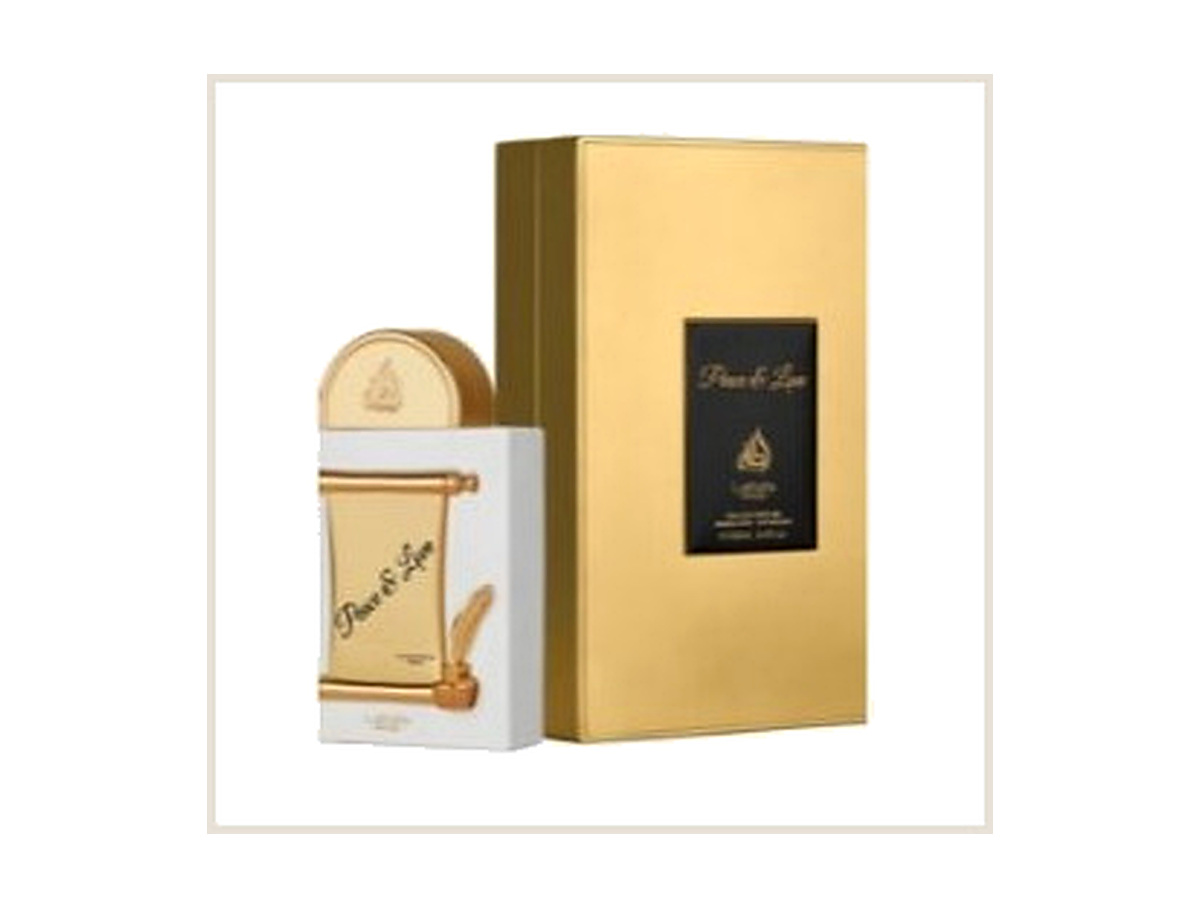
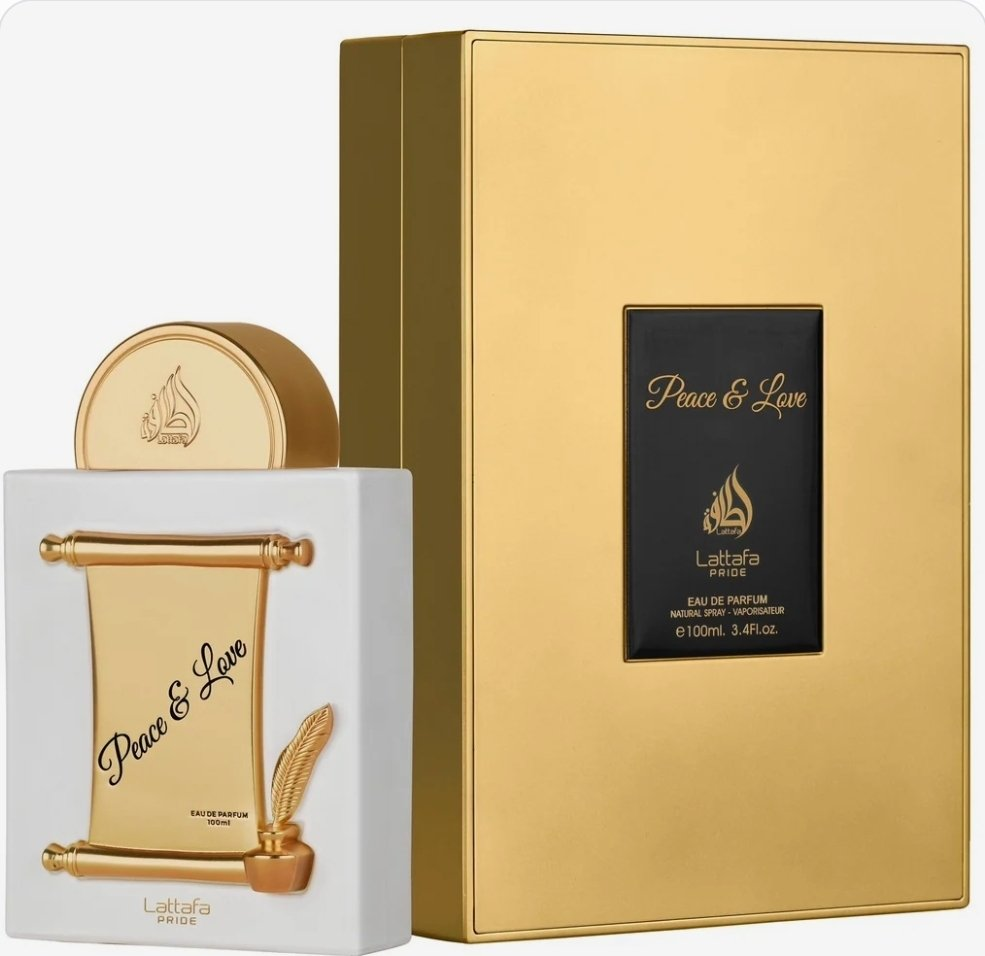
Replace Lattafa Pride Peace & Love photos with Boss's new shots

diff --git a/index.html b/index.html
@@ -695,7 +695,7 @@
         { name:'Jimmy Choo Illicit Flower Perfume for Women', niche:'Jimmy Choo · Women · 3.3 oz EDT', direction:'Sparkling fruit, rose and soft musk', description:'A graceful fruity-floral blend with a bright opening, delicate rose and a smooth musky finish. Polished, feminine and effortless for everyday wear.', category:'fresh', images:[{src:'assets/product-jimmy-choo-illicit-flower.jpg', alt:'Jimmy Choo Illicit Flower bottle close-up on a clean white background'},{src:'assets/product-jimmy-choo-illicit-flower-2.jpg', alt:'Jimmy Choo Illicit Flower bottle angled view on a clean white background'},{src:'assets/product-jimmy-choo-illicit-flower-3.jpg', alt:'Jimmy Choo Illicit Flower bottle with fresh fruit styling'}], price:59, decantPrice:15, originalPrice:79, featured:4 , paymentLink:'https://buy.stripe.com/dRmdRbfDjfUw4tQ9SHf7i15'},
         { name:'Afnan 9PM Elixir Perfume for Unisex', niche:'Afnan · Unisex · 3.4 oz Parfum Intense', direction:'Aromatic spice and warm vanilla woods', description:'Deep spice and aromatic freshness lead into a rich, smooth base of vanilla-toned woods. A powerful unisex choice with a dressed-up evening feel.', category:'amber', images:[{src:'assets/product-afnan-9pm-elixir.jpg', alt:'Afnan 9PM Elixir bottle and box — clean packshot'},{src:'assets/gallery-afnan-9pm-elixir-1.jpg', alt:'Afnan 9PM Elixir Perfume for Unisex — customer photo 1'}], price:44, decantPrice:11, originalPrice:55, featured:5, paymentLink:'https://buy.stripe.com/00w7sN1Mt5fSe4q0i7f7i16' },
         { name:'Bentley Intense Cologne for Men', niche:'Bentley · Men · 3.4 oz EDP', direction:'Rum, leather and smoky woods', description:'Warm rum and spice flow into leather, incense and dark woods. Rich, confident and best suited to cool weather or an evening setting.', category:'woody', images:[{src:'assets/product-bentley-intense.jpg', alt:'Bentley Intense bottle and box on a clean white background'},{src:'assets/product-bentley-intense-2.jpg', alt:'Bentley Intense bottle on a clean white background'}], price:40, decantPrice:10, originalPrice:52, featured:6, paymentLink:'https://buy.stripe.com/bJeeVf3UBaAcbWi5Crf7i19' },
-        { name:'Lattafa Pride Peace & Love Perfume for Unisex', niche:'Lattafa Pride · Unisex · 3.4 oz EDP', direction:'Soft florals, creamy woods and amber', description:'A smooth, comforting blend of luminous florals, creamy woods and mellow amber. Refined and easygoing, with a softly enveloping trail.', category:'amber', images:[{src:'assets/product-lattafa-peace-love.jpg', alt:'Lattafa Pride Peace and Love bottle and box — clean packshot'}], price:34, decantPrice:9, originalPrice:40, featured:7, paymentLink:'https://buy.stripe.com/9B66oJ2Qx6jW1hE6Gvf7i1a'},
+        { name:'Lattafa Pride Peace & Love Perfume for Unisex', niche:'Lattafa Pride · Unisex · 3.4 oz EDP', direction:'Soft florals, creamy woods and amber', description:'A smooth, comforting blend of luminous florals, creamy woods and mellow amber. Refined and easygoing, with a softly enveloping trail.', category:'amber', images:[{src:'assets/product-lattafa-peace-love.jpg', alt:'Lattafa Pride Peace and Love scroll bottle and gold box on a clean white background'},{src:'assets/product-lattafa-peace-love-2.jpg', alt:'Lattafa Pride Peace and Love scroll bottle on a clean white background'}], price:34, decantPrice:9, originalPrice:40, featured:7, paymentLink:'https://buy.stripe.com/9B66oJ2Qx6jW1hE6Gvf7i1a'},
         { name:'Lattafa Yara Elixir Perfume for Women', niche:'Lattafa · Women · 3.4 oz EDP', direction:'Lush berries, vanilla and warm amber', description:'Juicy fruit and soft florals melt into creamy vanilla and warm amber. Sweet, playful and plush without losing its polished finish.', category:'sweet', images:[{src:'assets/lattafa-yara-elixir-1.jpg', alt:'Lattafa Yara Elixir bottle on a clean white background'},{src:'assets/lattafa-yara-elixir-2.jpg', alt:'Lattafa Yara Elixir bottle in a pink fragrance composition'},{src:'assets/lattafa-yara-elixir-3.jpg', alt:'Lattafa Yara Elixir bottle and box with berries, vanilla and caramel notes'},{src:'assets/lattafa-yara-elixir-4.jpg', alt:'Lattafa Yara Elixir bottle with berries, vanilla and caramel notes'}], price:39, decantPrice:10, originalPrice:44, featured:8, paymentLink:'https://buy.stripe.com/7sYfZjfDj0ZC3pMc0Pf7i1b' },
         { name:'Rasasi Hawas Fire Cologne for Men', niche:'Rasasi · Men · 3.38 oz EDP', direction:'Red fruits, aromatic freshness and woods', description:'A vibrant mix of juicy fruit and crisp aromatics gains depth from spice and polished woods. Fresh at first spray, then warmer and more intense.', category:'fresh', images:[{src:'assets/product-rasasi-hawas-fire.jpg', alt:'Rasasi Hawas Fire bottle and box — clean packshot'},{src:'assets/gallery-rasasi-hawas-fire-1.jpg', alt:'Rasasi Hawas Fire Cologne for Men — customer photo 1'},{src:'assets/gallery-rasasi-hawas-fire-2.jpg', alt:'Rasasi Hawas Fire Cologne for Men — customer photo 2'}], price:54, decantPrice:14, originalPrice:75, featured:9 , paymentLink:'https://buy.stripe.com/5kQfZj3UB5fS9Oa5Crf7i14'},
         { name:'Armaf Odyssey Mega Cologne for Men', niche:'Armaf · Men · 3.4 oz EDP', direction:'Citrus, ginger and aromatic woods', description:'Zesty citrus and ginger create a brisk opening before aromatic herbs and clean woods take over. Modern, bright and made for everyday momentum.', category:'fresh', images:[{src:'assets/product-armaf-odyssey-mega.jpg', alt:'Armaf Odyssey Mega yellow leather bottle on a clean white background'},{src:'assets/product-armaf-odyssey-mega-2.jpg', alt:'Armaf Odyssey Mega bottle and yellow box on a clean white background'}], price:31, decantPrice:8, originalPrice:38, featured:10 , paymentLink:'https://buy.stripe.com/eVqdRb0Ip7o0e4q7Kzf7i0Z'},
